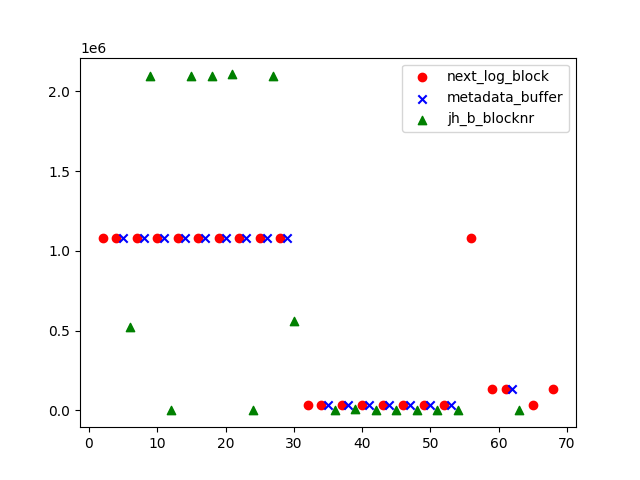
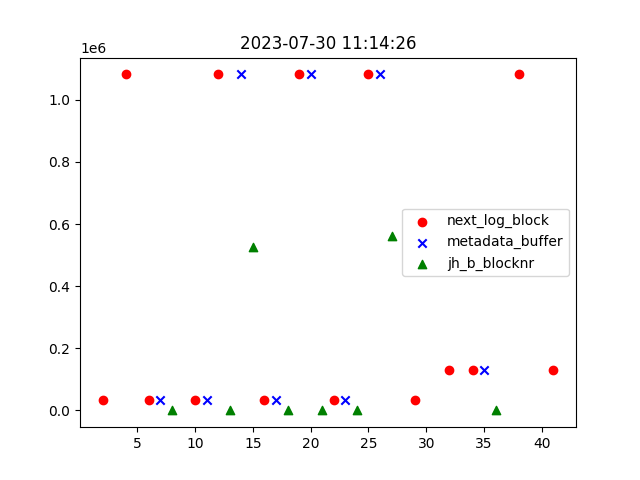
增加图片标题

diff --git a/extract_blocknr_of_next_blk.py b/extract_blocknr_of_next_blk.py
@@ -3,20 +3,27 @@
 Author: Ziyan ZHANG zhangzy273@mail2.sysu.edu.cn
 Date: 2023-07-29 19:45:10
 LastEditors: Ziyan ZHANG zhangzy273@mail2.sysu.edu.cn
-LastEditTime: 2023-07-30 10:52:45
+LastEditTime: 2023-07-30 11:17:50
 FilePath: /draw-block-address/extract_blocknr_of_next_blk.py
 Description: 这是默认设置,请设置`customMade`, 打开koroFileHeader查看配置 进行设置: https://github.com/OBKoro1/koro1FileHeader/wiki/%E9%85%8D%E7%BD%AE
 '''
 
 import matplotlib.pyplot as plt
-
+import time
+import os
 
 lines = []  # 存储行号
 block_numbers_next_log_block = []  # 存储第一种格式的块号
 block_numbers_metadata_buffer = []  # 存储第一种格式的块号
 jh_b_blocknr = []  # 存储第二种格式的块号
 
-with open('/home/zy/lab/swap_dir/kernel_log.txt', 'r') as file:
+log_file = '/home/zy/lab/swap_dir/kernel_log.txt'
+# 提取log_file的创建时间, 并转化成字符串形式
+log_file_create_time = time.strftime("%Y-%m-%d %H:%M:%S", time.localtime(os.path.getctime(log_file)))
+# 打印log_file的创建时间
+print(f"log_file: {log_file} 的创建时间: {log_file_create_time}")
+
+with open(log_file, 'r') as file:
     for line_number, line in enumerate(file, start=1):
         line = line.rstrip()  # 去除行尾的换行符和空格
         if '我的块号' in line:
@@ -50,6 +57,7 @@ plt.scatter(*zip(*block_numbers_next_log_block), c='r', marker='o', label='next_
 plt.scatter(*zip(*block_numbers_metadata_buffer), c='b', marker='x', label='metadata_buffer')
 plt.scatter(*zip(*jh_b_blocknr), c='g', marker='^', label='jh_b_blocknr')
 plt.legend()
+plt.title(log_file_create_time)
 
 plt.savefig('blocknr.png')
 
